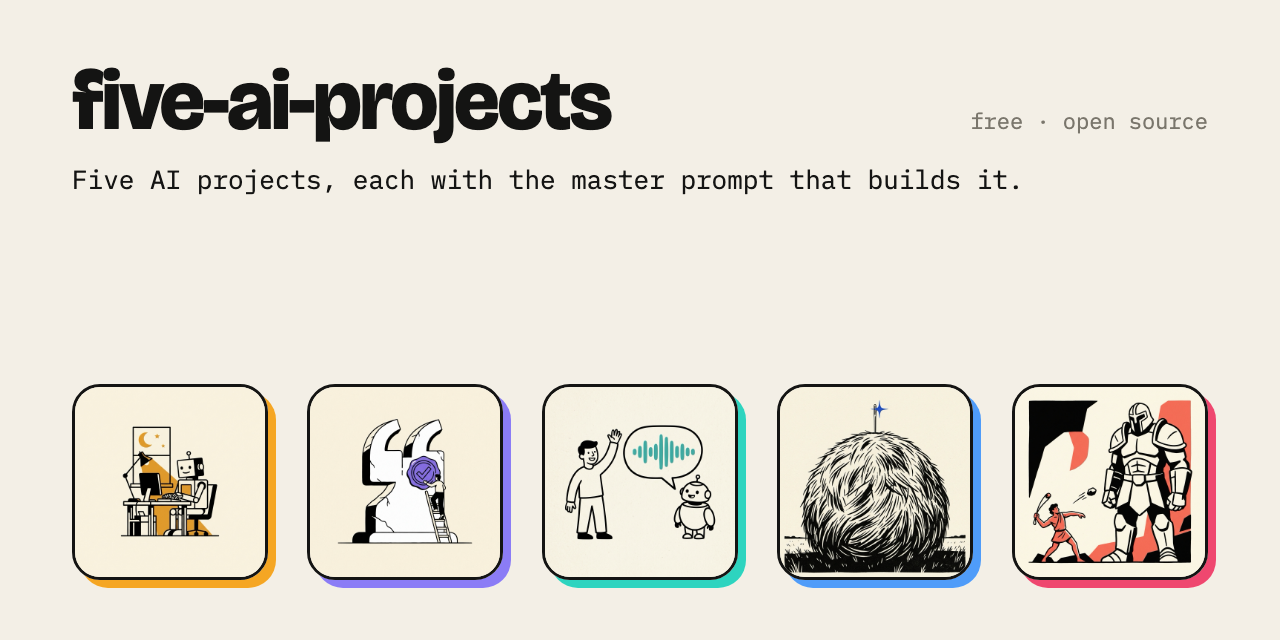
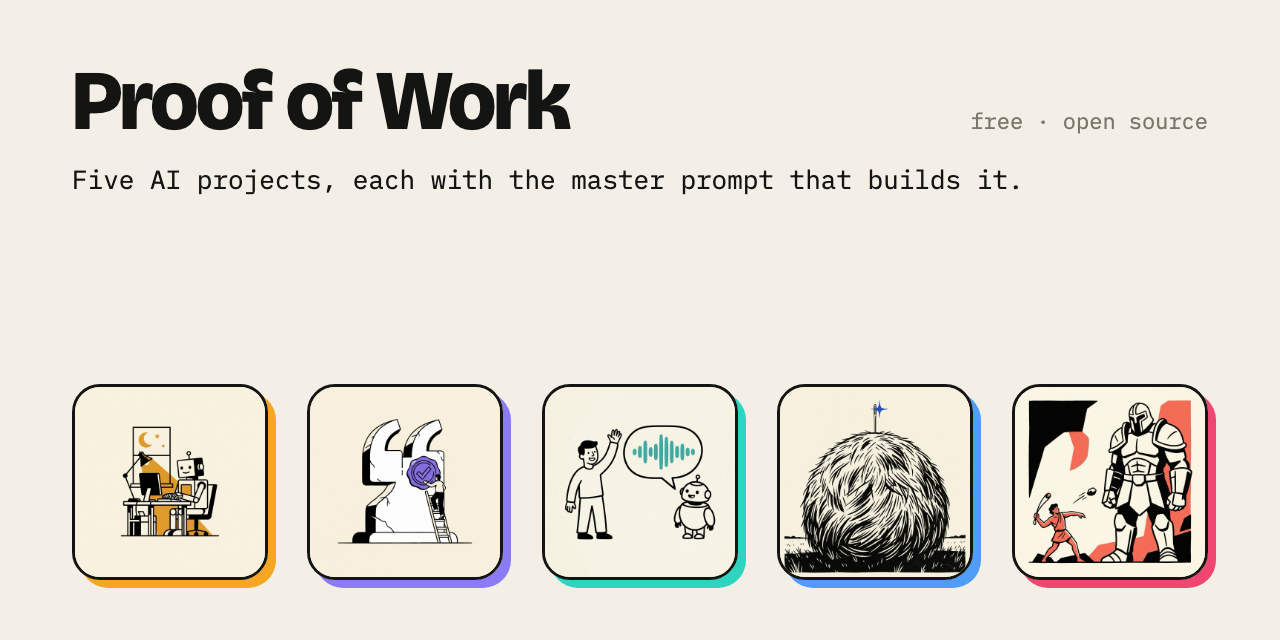
rename: Proof of Work, and each project takes its story name to match its illustration

Changed region(s): [[0.0312, 0.0938, 0.5, 0.2188]]

diff --git a/scripts/make_icons.py b/scripts/make_icons.py
@@ -27,11 +27,11 @@ PAPER, INK, MUTE = "#f3efe6", "#141413", "#7a766c"
 
 # folder, thumbnail name, accent (the shadow colour on the banner)
 PROJECTS = [
-    ("01-fixer", "fixer", "#f5a623"),
-    ("02-scholar", "scholar", "#8b7cf6"),
-    ("03-concierge", "concierge", "#2dd4bf"),
-    ("04-librarian", "librarian", "#4f9cf9"),
-    ("05-david", "david", "#ef476f"),
+    ("01-the-night-shift", "the-night-shift", "#f5a623"),
+    ("02-citation-needed", "citation-needed", "#8b7cf6"),
+    ("03-hello-world", "hello-world", "#2dd4bf"),
+    ("04-needle-in-a-haystack", "needle-in-a-haystack", "#4f9cf9"),
+    ("05-david-vs-goliath", "david-vs-goliath", "#ef476f"),
 ]
 FONTS = ('<link rel="stylesheet" href="https://fonts.googleapis.com/css2?family=Bricolage+Grotesque:opsz,wght@12..96,800'
          '&family=IBM+Plex+Mono:wght@400;500&display=swap">')
@@ -56,7 +56,7 @@ def banner_html() -> str:
             '<div style="box-sizing:border-box;width:1280px;height:640px;padding:60px 72px;display:flex;flex-direction:column;gap:18px">'
             f'<div style="display:flex;justify-content:space-between;align-items:baseline">'
             f'<div style="font-family:\'Bricolage Grotesque\',\'Helvetica Neue\',sans-serif;font-weight:800;font-size:84px;'
-            f'letter-spacing:-0.03em;line-height:1;color:{INK}">five-ai-projects</div>'
+            f'letter-spacing:-0.03em;line-height:1;color:{INK}">Proof of Work</div>'
             f'<div style="font-family:\'IBM Plex Mono\',Menlo,monospace;font-size:22px;color:{MUTE}">free · open source</div></div>'
             f'<div style="font-family:\'IBM Plex Mono\',Menlo,monospace;font-size:26px;color:{INK}">'
             'Five AI projects, each with the master prompt that builds it.</div>'

diff --git a/tests/conftest.py b/tests/conftest.py
@@ -6,7 +6,13 @@ from pathlib import Path
 
 ROOT = Path(__file__).resolve().parent.parent
 PROJECTS = ROOT / "projects"
-EXPECTED = ["01-fixer", "02-scholar", "03-concierge", "04-librarian", "05-david"]
+EXPECTED = [
+    "01-the-night-shift",
+    "02-citation-needed",
+    "03-hello-world",
+    "04-needle-in-a-haystack",
+    "05-david-vs-goliath",
+]
 
 GUIDE_HEADINGS = [
     "What you build",

diff --git a/HOW-TO-USE.md b/HOW-TO-USE.md
@@ -5,15 +5,22 @@ into Claude Code as your first message, answer an interview, approve the spec it
 through phases that each end in a number you can check. This page is the mechanics of that, on an
 API key or free and local. [Why these five](WHY-THESE-FIVE.md) covers the choice of projects.
 
+|  | Project | Prompt |
+|---|---|---|
+| <img src="assets/the-night-shift-128.png" width="56"> | [The Night Shift](projects/01-the-night-shift/) | [PROMPT.md](projects/01-the-night-shift/PROMPT.md) |
+| <img src="assets/citation-needed-128.png" width="56"> | [Citation Needed](projects/02-citation-needed/) | [PROMPT.md](projects/02-citation-needed/PROMPT.md) |
+| <img src="assets/hello-world-128.png" width="56"> | [Hello, World](projects/03-hello-world/) | [PROMPT.md](projects/03-hello-world/PROMPT.md) |
+| <img src="assets/needle-in-a-haystack-128.png" width="56"> | [Needle in a Haystack](projects/04-needle-in-a-haystack/) | [PROMPT.md](projects/04-needle-in-a-haystack/PROMPT.md) |
+| <img src="assets/david-vs-goliath-128.png" width="56"> | [David vs Goliath](projects/05-david-vs-goliath/) | [PROMPT.md](projects/05-david-vs-goliath/PROMPT.md) |
+
 ## Install Claude Code
 
 Claude Code runs in your terminal. Install it and sign in with your Claude account by following the
 quickstart: https://code.claude.com/docs/en/quickstart. A working `claude` command inside an empty
 folder is the whole setup.
 
-The prompts are plain Markdown, so they also work as a first message in Cursor or Codex; in those
-tools, save a copy of the `CLAUDE.md` the build writes as `AGENTS.md`, so the rules survive a new
-session.
+The prompts are plain Markdown, so they also work as a first message in Cursor or Codex; save the
+`CLAUDE.md` the build writes as `AGENTS.md` there, so the rules survive a new session.
 
 ## Start in an empty folder
 
@@ -21,13 +28,11 @@ A fresh folder with its own git history keeps the phase commits readable, and a 
 the prompt's final verification checks at the end.
 
 ```bash
-mkdir fixer && cd fixer && git init
+mkdir night-shift && cd night-shift && git init
 ```
 
-Pick a project and copy its `PROMPT.md` into that folder: [Fixer](projects/01-fixer/),
-[Scholar](projects/02-scholar/), [Concierge](projects/03-concierge/),
-[Librarian](projects/04-librarian/), [David](projects/05-david/). Read the project's guide first if
-you have not already. It says what the build measures and how long it tends to take.
+Copy a project's `PROMPT.md` from the table above into that folder. Read its guide first if you have
+not already; it says what the build measures and how long it tends to take.
 
 ## Paste the prompt
 
@@ -68,8 +73,7 @@ number in the message, so you can go back to the last state that measured well.
 When a phase goes wrong twice, stop instead of trying a third time in the same session. Run
 `/clear`, then start the phase again, putting what you learned into the first message. Anthropic's
 own guidance is to clear context between tasks rather than carry a long session forward:
-https://code.claude.com/docs/en/best-practices. A session that keeps missing the same way usually
-has a full context window behind it.
+https://code.claude.com/docs/en/best-practices.
 
 ## Free and local
 
@@ -88,11 +92,11 @@ fits the RAM you named in the interview. If nothing suitable is installed, it pr
 
 What each build uses on this path:
 
-- Fixer: an Ollama coding model behind the agent scaffold, with Docker for the sandbox.
-- Scholar: keyless web search and a small entailment model on CPU as the citation grader.
-- Concierge: faster-whisper for speech to text, Ollama for the reply, Kokoro for the voice.
-- Librarian: local embeddings, SQLite full-text and vector search, and a local reranker.
-- David: Colab's free T4, which needs a Google account, or Apple Silicon for the fine-tune.
+- The Night Shift: an Ollama coding model behind the agent scaffold, with Docker for the sandbox.
+- Citation Needed: keyless web search and a small entailment model on CPU as the citation grader.
+- Hello, World: faster-whisper for speech to text, Ollama for the reply, Kokoro for the voice.
+- Needle in a Haystack: local embeddings, SQLite full-text and vector search, and a local reranker.
+- David vs Goliath: Colab's free T4, which needs a Google account, or Apple Silicon for the fine-tune.
 
 Scores come out lower here and turns take longer. The bill is $0 for what the build calls. Claude
 Code itself needs a paid Claude plan, or you can paste the prompts into another agent's free tier.
@@ -101,10 +105,10 @@ gets one row per backend, so the gap between them is on the page instead of hidd
 
 ## With an API
 
-One key from Anthropic, OpenAI or Gemini covers the model calls in all five builds. Two of them take
-a second key, and one needs a GPU. Scholar takes a search key, from Tavily or Brave, if you would
-rather not use the keyless path. Concierge takes speech keys when you want hosted speech to text and
-hosted voice. David needs rented GPU time, or Colab instead. Its guide gives the hours and the cost.
+One key from Anthropic, OpenAI or Gemini covers the model calls in all five builds. Two of them
+take a second key, and one needs a GPU: Citation Needed for search, Tavily or Brave, unless you use
+the keyless path; Hello, World for hosted speech to text and voice; and David vs Goliath for rented
+GPU time or Colab, with the hours and cost in its guide.
 
 Keys live in `.env`, loaded at startup and listed in `.env.example` with empty values. `.env` goes
 into `.gitignore` in the first commit, and nothing ever prints a key. The final verification greps
@@ -137,10 +141,10 @@ people who published them, linked where they appear.
 
 ## If something breaks
 
-Run `make gate` in the built project first. It runs the checks that project depends on, prints one
-line for each and names the one that failed: Docker and the dataset for Fixer, search and the
-entailment model for Scholar, the speech pipeline for Concierge, the database and the index for
-Librarian, the GPU or MLX runtime for David.
+Run `make gate` in the built project first. It runs the checks that project depends on and names
+the one that failed: Docker and the dataset (The Night Shift), search and the entailment model
+(Citation Needed), the speech pipeline (Hello, World), the database and the index (Needle in a
+Haystack), the GPU or MLX runtime (David vs Goliath).
 
 Then read your own `PREFLIGHT.md`. A defect you fixed once tends to return after a refactor, and
 the row tells you which number catches it.

diff --git a/README.md b/README.md
@@ -1,22 +1,22 @@
-<img src="assets/banner.png" alt="five-ai-projects">
+<img src="assets/banner.png" alt="Proof of Work">
 
-# five-ai-projects
+# Proof of Work
 
 Five portfolio projects that make an AI engineer's GitHub say "you built that?", each with a hands-on guide and a master prompt that lets Claude Code build it with you.
 
-[![tests](https://github.com/itayco2/five-ai-projects/actions/workflows/tests.yml/badge.svg)](https://github.com/itayco2/five-ai-projects/actions/workflows/tests.yml)
+[![tests](https://github.com/itayco2/proof-of-work/actions/workflows/tests.yml/badge.svg)](https://github.com/itayco2/proof-of-work/actions/workflows/tests.yml)
 [![code: MIT](https://img.shields.io/badge/code-MIT-blue)](LICENSE)
 [![content: CC BY 4.0](https://img.shields.io/badge/content-CC%20BY%204.0-lightgrey)](LICENSE-CONTENT)
 
-Every project has a $0 path. Four run on your own machine with Ollama and other open models. David's fine-tune trains on Colab's free T4 or on Apple Silicon, and its free-path baseline is the Gemini free tier or a local model. Each guide's "Free and local" section says what changes.
+Every project has a $0 path. Four run on your own machine with Ollama and other open models. David vs Goliath's fine-tune trains on Colab's free T4 or on Apple Silicon, and its free-path baseline is the Gemini free tier or a local model. Each guide's "Free and local" section says what changes.
 
 |  | Project | What it is | The number you publish | Weeks |
 |---|---|---|---|---|
-| <img src="assets/fixer-128.png" width="88"> | [Fixer](projects/01-fixer/) | A coding agent scored by a benchmark's own tests | Resolved rate on 50 SWE-bench Verified-mini instances, with a 95% interval | 3 to 4 |
-| <img src="assets/scholar-128.png" width="88"> | [Scholar](projects/02-scholar/) | A research agent whose every cited sentence is checked | Citation precision and recall over 50 questions | 2 to 3 |
-| <img src="assets/concierge-128.png" width="88"> | [Concierge](projects/03-concierge/) | A real-time voice agent that obeys an interruption mid-sentence | p50 and p95 from end of speech to first audio, over 100 turns | 2 to 3 |
-| <img src="assets/librarian-128.png" width="88"> | [Librarian](projects/04-librarian/) | Hybrid retrieval over a million chunks, latency on the page | recall@10 and nDCG@10 on 200 or more labelled questions | 2 to 3 |
-| <img src="assets/david-128.png" width="88"> | [David](projects/05-david/) | A small fine-tune measured against a frontier model | Fine-tuned against a frontier model on 1,000 or more held-out examples, with the cost ratio | 1 to 2 |
+| <img src="assets/the-night-shift-128.png" width="88"> | [The Night Shift](projects/01-the-night-shift/) | A coding agent scored by a benchmark's own tests | Resolved rate on 50 SWE-bench Verified-mini instances, with a 95% interval | 3 to 4 |
+| <img src="assets/citation-needed-128.png" width="88"> | [Citation Needed](projects/02-citation-needed/) | A research agent whose every cited sentence is checked | Citation precision and recall over 50 questions | 2 to 3 |
+| <img src="assets/hello-world-128.png" width="88"> | [Hello, World](projects/03-hello-world/) | A real-time voice agent that obeys an interruption mid-sentence | p50 and p95 from end of speech to first audio, over 100 turns | 2 to 3 |
+| <img src="assets/needle-in-a-haystack-128.png" width="88"> | [Needle in a Haystack](projects/04-needle-in-a-haystack/) | Hybrid retrieval over a million chunks, latency on the page | recall@10 and nDCG@10 on 200 or more labelled questions | 2 to 3 |
+| <img src="assets/david-vs-goliath-128.png" width="88"> | [David vs Goliath](projects/05-david-vs-goliath/) | A small fine-tune measured against a frontier model | Fine-tuned against a frontier model on 1,000 or more held-out examples, with the cost ratio | 1 to 2 |
 
 ## How to use one
 

diff --git a/WHY-THESE-FIVE.md b/WHY-THESE-FIVE.md
@@ -54,13 +54,13 @@ The same checklist recurs, source after source:
 
 ## How the five map onto that
 
-| Project | Skills it proves | Headline number | Published number it sits beside |
-|---|---|---|---|
-| Fixer | Agents, sandboxing, evals, cost per task | Percent of SWE-bench Verified-mini (50 instances) resolved, and dollars per instance | mini-SWE-agent reports above 74% on the full 500-instance Verified set with frontier models; the open scaffolds of the Claude 3.5 Sonnet era are collected in a 2025 leaderboard survey, which carries their resolved rates |
-| Scholar | Orchestration, context engineering, faithfulness evals, prompt-injection defence | Citation precision and recall on a 50-question set; minutes and dollars per report | ALCE citation recall and precision for ChatGPT: 73.6 and 72.5 on ASQA, 51.1 and 50.0 on ELI5 |
-| Concierge | Streaming, latency engineering, tool use, conversation evals | p50 and p95 from end of speech to first audio; task completion over 30 scripted conversations | Hosted speech-to-speech p50 of 1,064 ms on Gemini Live and 1,253 ms on OpenAI Realtime; a text agent at 85% task completion against 31 to 51% for voice agents on clean audio |
-| Librarian | Retrieval engineering, serving, cost, evals | recall@10 and nDCG@10 on 200 or more labelled questions, before and after each retrieval step; p95 latency; dollars per query | bge-small-en-v1.5 at 51.68 on MTEB retrieval, averaged over 15 datasets |
-| David | Fine-tuning judgment, evals, cost | Small model versus frontier model on a held-out set; cost ratio per thousand requests | 310 fine-tunes on LoRA Land: 4-bit LoRA models beat GPT-4 by 10 points on average (April 2024) |
+|  | Project | Skills it proves | Headline number | Published number it sits beside |
+|---|---|---|---|---|
+| <img src="assets/the-night-shift-128.png" width="56"> | The Night Shift | Agents, sandboxing, evals, cost per task | Percent of SWE-bench Verified-mini (50 instances) resolved, and dollars per instance | mini-SWE-agent reports above 74% on the full 500-instance Verified set with frontier models; the open scaffolds of the Claude 3.5 Sonnet era are collected in a 2025 leaderboard survey, which carries their resolved rates |
+| <img src="assets/citation-needed-128.png" width="56"> | Citation Needed | Orchestration, context engineering, faithfulness evals, prompt-injection defence | Citation precision and recall on a 50-question set; minutes and dollars per report | ALCE citation recall and precision for ChatGPT: 73.6 and 72.5 on ASQA, 51.1 and 50.0 on ELI5 |
+| <img src="assets/hello-world-128.png" width="56"> | Hello, World | Streaming, latency engineering, tool use, conversation evals | p50 and p95 from end of speech to first audio; task completion over 30 scripted conversations | Hosted speech-to-speech p50 of 1,064 ms on Gemini Live and 1,253 ms on OpenAI Realtime; a text agent at 85% task completion against 31 to 51% for voice agents on clean audio |
+| <img src="assets/needle-in-a-haystack-128.png" width="56"> | Needle in a Haystack | Retrieval engineering, serving, cost, evals | recall@10 and nDCG@10 on 200 or more labelled questions, before and after each retrieval step; p95 latency; dollars per query | bge-small-en-v1.5 at 51.68 on MTEB retrieval, averaged over 15 datasets |
+| <img src="assets/david-vs-goliath-128.png" width="56"> | David vs Goliath | Fine-tuning judgment, evals, cost | Small model versus frontier model on a held-out set; cost ratio per thousand requests | 310 fine-tunes on LoRA Land: 4-bit LoRA models beat GPT-4 by 10 points on average (April 2024) |
 
 ## Sources
 

diff --git a/projects/03-hello-world/PROMPT.md b/projects/03-hello-world/PROMPT.md
@@ -1,10 +1,10 @@
-# Concierge: master prompt
+# Hello, World, the master prompt
 
 Paste this into Claude Code in an empty repository.
 
 ## Goal
 
-Build Concierge, a real-time voice agent in the browser that listens, can be interrupted, calls tools
+Build Hello, World, a real-time voice agent in the browser that listens, can be interrupted, calls tools
 mid-conversation, and books an appointment on a local calendar, with a latency budget measured per
 turn.
 
@@ -39,7 +39,7 @@ Phase 1.
 
 Build one interface for every model call and at least two backends behind it: the API I chose in the interview, and Ollama for the local path. One switch selects the backend: the environment variable `MODEL_BACKEND` (`api` or `local`), overridden by a `--backend` flag. Model names, endpoints and prices live in one config file, never at call sites. The eval, the cost log and the latency log run unchanged on both backends, and every results table has one row per backend. On the local path, run `ollama list` before choosing a model and pick the largest model that fits the RAM I told you about; if nothing suitable is installed, tell me the `ollama pull` command and stop. Expect the local path to score lower and run slower. Say so in the README beside the numbers; never hide it.
 
-For Concierge that interface covers three kinds of call: speech to text, the model, and speech
+For Hello, World that interface covers three kinds of call: speech to text, the model, and speech
 synthesis. Each one gets an API backend and a local backend behind the same signature.
 `MODEL_BACKEND` switches all three together, and a mixed pipeline such as a hosted speech-to-text
 service in front of a local model needs its own flag and its own row in every table. If I answered

diff --git a/projects/02-citation-needed/README.md b/projects/02-citation-needed/README.md
@@ -1,6 +1,6 @@
-![Scholar icon](icon.png)
+![Citation Needed icon](icon.png)
 
-# Scholar: a research agent with verified citations
+# Citation Needed, a research agent with verified citations
 
 ## What you build
 
@@ -16,7 +16,7 @@ printed on the cover.
 ## Why it gets interviews
 
 Agents and orchestration appear in 10 of the 11 job postings behind this repo. Evals appear in all
-11. Scholar is both at once, on a task where a wrong citation is easy to spot and hard to excuse.
+11. Citation Needed is both at once, on a task where a wrong citation is easy to spot and hard to excuse.
 
 Landed, an AI-jobs platform, lists "no eval, just vibes" among the patterns that get a portfolio
 rejected on sight. Chirag Hasija, who has interviewed on both sides of the loop, tells candidates to

diff --git a/CONTRIBUTING.md b/CONTRIBUTING.md
@@ -7,8 +7,8 @@ Two kinds of change are welcome here: a result you measured, and a correction to
 If you finished one of the five builds, the row belongs on the board. Open a pull request that adds
 one line to [RESULTS.md](RESULTS.md) and changes nothing else. The five columns are:
 
-- Project, the folder name, one of `01-fixer`, `02-scholar`, `03-concierge`, `04-librarian`,
-  `05-david`.
+- Project, the folder name, one of `01-the-night-shift`, `02-citation-needed`, `03-hello-world`,
+  `04-needle-in-a-haystack`, `05-david-vs-goliath`.
 - Date, the date you produced the number, as `2026-09-21`.
 - Path, `api` or `local`, whichever the run used.
 - Model, the model or models behind the number, with your own repo linked from this cell. The link is

diff --git a/projects/02-citation-needed/PROMPT.md b/projects/02-citation-needed/PROMPT.md
@@ -1,10 +1,10 @@
-# Scholar: master prompt
+# Citation Needed, the master prompt
 
 Paste this as the first message to Claude Code in an empty folder.
 
 ## Goal
 
-Build Scholar, a research agent that plans, searches in parallel, writes a cited report, and
+Build Citation Needed, a research agent that plans, searches in parallel, writes a cited report, and
 verifies every citation against the fetched source with a grader that is not the writer. The report
 is markdown with inline `[n]` citations and a sources list. The verifier splits the report into
 sentences, checks each cited sentence against the passage it cites with an entailment model, and

diff --git a/projects/04-needle-in-a-haystack/PROMPT.md b/projects/04-needle-in-a-haystack/PROMPT.md
@@ -1,11 +1,11 @@
-# Librarian: master prompt
+# Needle in a Haystack, the master prompt
 
 Paste this into Claude Code in an empty repository. Answer the interview, approve the plan, then work
 one phase at a time.
 
 ## Goal
 
-Build Librarian, a retrieval system over about one million chunks of real text with a search page,
+Build Needle in a Haystack, a retrieval system over about one million chunks of real text with a search page,
 where every retrieval step is measured on a labelled question set.
 
 Done when: recall@10 and nDCG@10 are reported on at least 200 labelled questions for four

diff --git a/projects/01-the-night-shift/PROMPT.md b/projects/01-the-night-shift/PROMPT.md
@@ -1,11 +1,11 @@
-# Fixer: master prompt
+# The Night Shift, the master prompt
 
 Paste this into a coding agent in an empty repository. Work one phase at a time and stop at every
 checkpoint.
 
 ## Goal
 
-Build Fixer, a coding agent that takes a GitHub issue, reproduces it in a container, patches, runs
+Build The Night Shift, a coding agent that takes a GitHub issue, reproduces it in a container, patches, runs
 the tests and opens a pull request, scored on SWE-bench Verified-mini.
 
 Done when: the resolved rate on all 50 Verified-mini instances is reported per backend with a 95%

diff --git a/projects/05-david-vs-goliath/PROMPT.md b/projects/05-david-vs-goliath/PROMPT.md
@@ -1,10 +1,10 @@
-# David: master prompt
+# David vs Goliath, the master prompt
 
 Paste this into Claude Code in an empty folder. Answer the interview, then work phase by phase.
 
 ## Goal
 
-Build David, a fine-tune of a small open model on one narrow task that is compared, honestly,
+Build David vs Goliath, a fine-tune of a small open model on one narrow task that is compared, honestly,
 against a frontier model on a frozen held-out set. The comparison is the product. A high score on a
 set you cannot prove was clean is worth nothing, so the split comes before the training.
 
